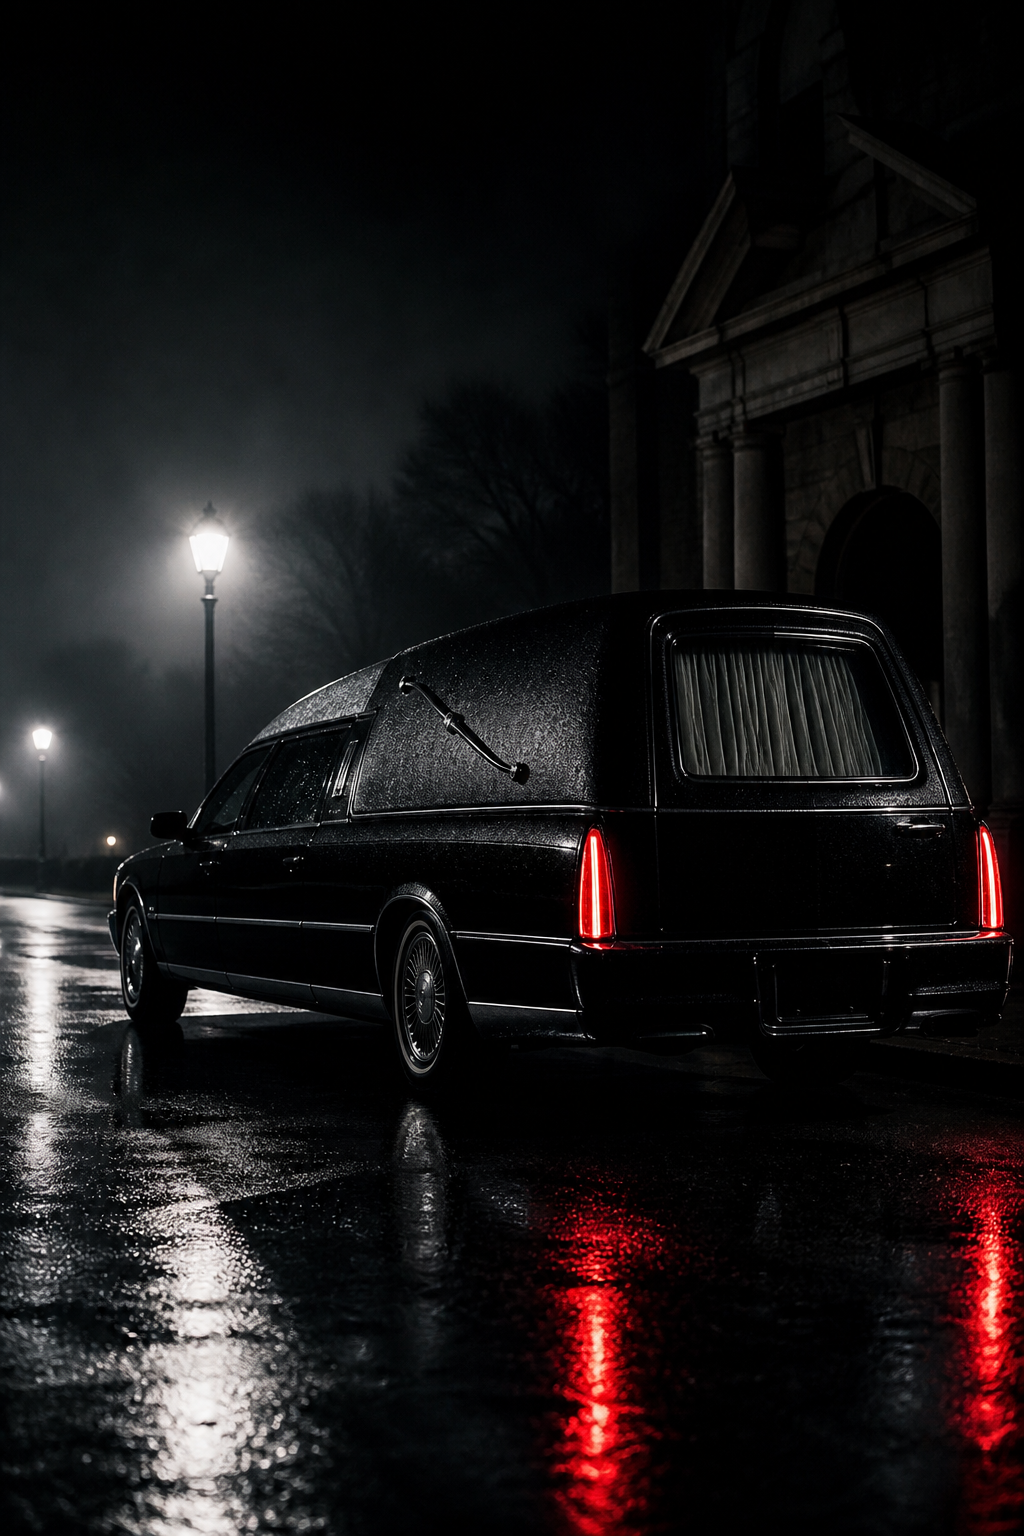
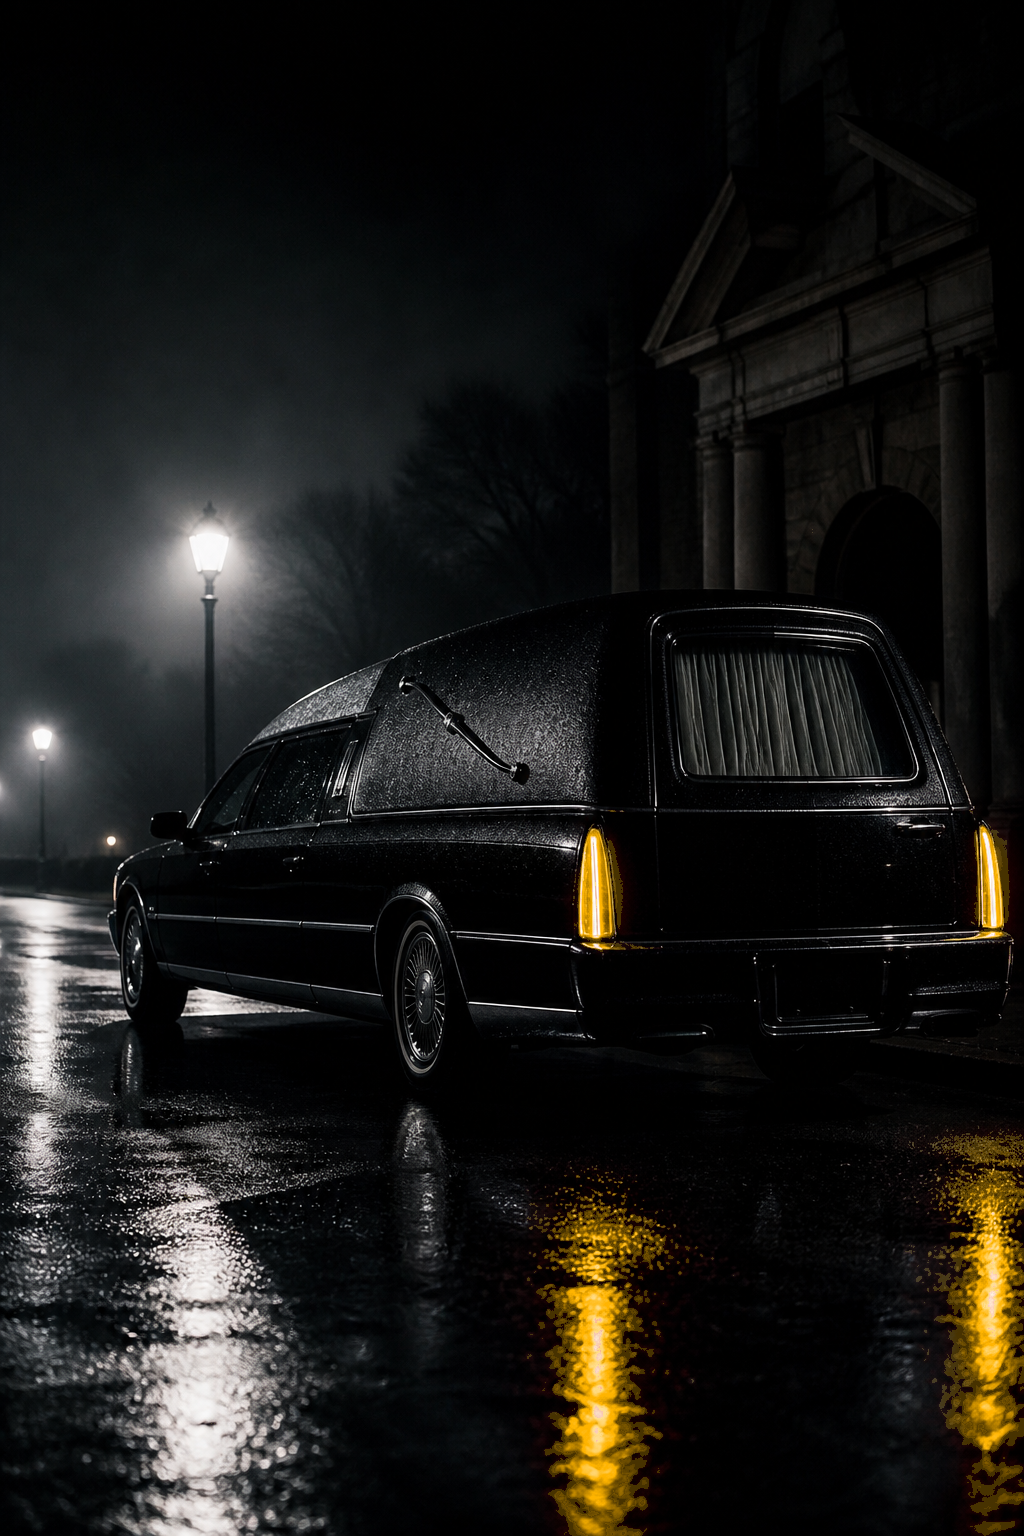
Recolor site graphics from red accents to AngelGranit gold.

diff --git a/scripts/recolor_red_to_gold.py b/scripts/recolor_red_to_gold.py
@@ -1,0 +1,97 @@
+# -*- coding: utf-8 -*-
+"""Recolor saturated red brand accents to gold. Skips skin-like tones."""
+from pathlib import Path
+from PIL import Image
+import colorsys
+import shutil
+
+ROOT = Path("images")
+BACKUP = Path("images/_backup_red")
+
+TARGETS = [
+    "banner-ritual-services.png",
+    "share-repost.png",
+    "showcase-hearse.png",
+    "price-list.png",
+    "price-list-2.png",
+    "catalog/banner-ritual.png",
+]
+
+# Gold hue ~43° in HSV (0..1)
+GOLD_H = 0.118
+GOLD_S_BOOST = 1.05
+GOLD_V_BOOST = 1.08
+
+
+def is_brand_red(r, g, b, a):
+    if a < 30:
+        return False
+    # Skip near-grays
+    mx, mn = max(r, g, b), min(r, g, b)
+    if mx < 55 or (mx - mn) < 28:
+        return False
+    # Skin / warm neutrals: R high but G close to R
+    if r > 90 and g > 55 and abs(r - g) < 55 and b < g + 15 and (r - b) < 90:
+        # likely skin/wood — only treat if very saturated pure red
+        if g > r * 0.55:
+            return False
+    h, s, v = colorsys.rgb_to_hsv(r / 255.0, g / 255.0, b / 255.0)
+    # Pure brand red: hue near 0, decent saturation
+    hue_red = h <= 0.045 or h >= 0.955
+    if hue_red and s >= 0.42 and v >= 0.18:
+        return True
+    # Chromatic red without relying only on hue (dark reds)
+    if r >= 80 and r > g * 1.45 and r > b * 1.35 and (r - g) >= 35 and s >= 0.38:
+        return True
+    # Mid red accents used in UI text
+    if r >= 140 and g < 90 and b < 90 and (r - g) >= 50:
+        return True
+    return False
+
+
+def to_gold(r, g, b):
+    h, s, v = colorsys.rgb_to_hsv(r / 255.0, g / 255.0, b / 255.0)
+    s = min(1.0, max(0.35, s * GOLD_S_BOOST))
+    v = min(1.0, v * GOLD_V_BOOST)
+    # Prefer readable gold, not muddy brown
+    if v < 0.35:
+        v = min(1.0, v + 0.12)
+    if s < 0.45:
+        s = 0.55
+    nr, ng, nb = colorsys.hsv_to_rgb(GOLD_H, s, v)
+    return int(nr * 255), int(ng * 255), int(nb * 255)
+
+
+def recolor(path: Path):
+    im = Image.open(path).convert("RGBA")
+    px = im.load()
+    w, h = im.size
+    changed = 0
+    for y in range(h):
+        for x in range(w):
+            r, g, b, a = px[x, y]
+            if is_brand_red(r, g, b, a):
+                nr, ng, nb = to_gold(r, g, b)
+                px[x, y] = (nr, ng, nb, a)
+                changed += 1
+    return im, changed, w * h
+
+
+def main():
+    BACKUP.mkdir(parents=True, exist_ok=True)
+    for rel in TARGETS:
+        src = ROOT / rel
+        if not src.exists():
+            print("skip missing", rel)
+            continue
+        bak = BACKUP / rel.replace("/", "__")
+        if not bak.exists():
+            shutil.copy2(src, bak)
+        im, changed, total = recolor(src)
+        im.save(src, optimize=True)
+        pct = 100.0 * changed / total if total else 0
+        print(f"{pct:5.1f}% pixels -> gold  {rel}  ({changed})")
+
+
+if __name__ == "__main__":
+    main()

diff --git a/scripts/recolor_red_to_gold_pass2.py b/scripts/recolor_red_to_gold_pass2.py
@@ -1,0 +1,75 @@
+# -*- coding: utf-8 -*-
+"""Second pass: convert remaining dark maroon / red glows to gold."""
+from pathlib import Path
+from PIL import Image
+import colorsys
+
+ROOT = Path("images")
+TARGETS = [
+    "banner-ritual-services.png",
+    "price-list.png",
+    "price-list-2.png",
+    "showcase-hearse.png",
+    "catalog/banner-ritual.png",
+]
+
+GOLD_H = 0.118
+
+
+def is_remaining_red(r, g, b, a):
+    if a < 20:
+        return False
+    mx, mn = max(r, g, b), min(r, g, b)
+    if mx < 28:
+        return False
+    h, s, v = colorsys.rgb_to_hsv(r / 255.0, g / 255.0, b / 255.0)
+    # Already gold-ish — skip
+    if 0.08 <= h <= 0.18 and s >= 0.25:
+        return False
+    # Skin / warm lamp — skip
+    if r > 90 and g > 60 and abs(r - g) < 50 and b > 40 and s < 0.45:
+        return False
+    # Dark maroon bars / accents
+    if r >= 40 and g <= r * 0.72 and b <= r * 0.72 and (r - g) >= 18 and (r - b) >= 18:
+        if s >= 0.22 or (r - g) >= 28:
+            return True
+    # Red hue leftover
+    if (h <= 0.06 or h >= 0.94) and s >= 0.28 and v >= 0.12:
+        return True
+    # Soft red glows (corners): reddish tint over dark
+    if r >= 50 and g < 45 and b < 45 and r > g + 20:
+        return True
+    return False
+
+
+def to_gold(r, g, b):
+    h, s, v = colorsys.rgb_to_hsv(r / 255.0, g / 255.0, b / 255.0)
+    # Map dark maroons to richer gold
+    s = min(1.0, max(0.42, s * 1.15))
+    v = min(1.0, max(0.28, v * 1.25))
+    nr, ng, nb = colorsys.hsv_to_rgb(GOLD_H, s, v)
+    return int(nr * 255), int(ng * 255), int(nb * 255)
+
+
+def main():
+    for rel in TARGETS:
+        path = ROOT / rel
+        if not path.exists():
+            continue
+        im = Image.open(path).convert("RGBA")
+        px = im.load()
+        w, h = im.size
+        n = 0
+        for y in range(h):
+            for x in range(w):
+                r, g, b, a = px[x, y]
+                if is_remaining_red(r, g, b, a):
+                    nr, ng, nb = to_gold(r, g, b)
+                    px[x, y] = (nr, ng, nb, a)
+                    n += 1
+        im.save(path, optimize=True)
+        print(f"{100*n/(w*h):5.1f}%  {rel}  ({n})")
+
+
+if __name__ == "__main__":
+    main()

diff --git a/scripts/scan_red_images.py b/scripts/scan_red_images.py
@@ -1,0 +1,58 @@
+# -*- coding: utf-8 -*-
+"""Scan PNGs for red-ish pixels and report candidates for gold recolor."""
+from pathlib import Path
+from PIL import Image
+import colorsys
+
+ROOT = Path("images")
+FILES = [
+    "banner-ritual-services.png",
+    "service-funeral.png",
+    "showcase-monument.png",
+    "showcase-hearse.png",
+    "package-minimal.png",
+    "package-hall.png",
+    "package-standard.png",
+    "package-elite.png",
+    "price-list.png",
+    "price-list-2.png",
+    "share-repost.png",
+    "qr-share.png",
+    "catalog/banner-ritual.png",
+    "hero-angelgranit.png",
+]
+
+def red_ratio(path: Path, sample=4):
+    im = Image.open(path).convert("RGBA")
+    w, h = im.size
+    px = im.load()
+    red = tot = 0
+    for y in range(0, h, sample):
+        for x in range(0, w, sample):
+            r, g, b, a = px[x, y]
+            if a < 40:
+                continue
+            tot += 1
+            mx = max(r, g, b)
+            mn = min(r, g, b)
+            if mx < 40:
+                continue
+            # red-ish: high R, low G/B relative
+            if r > 90 and r > g * 1.35 and r > b * 1.25 and (r - g) > 25:
+                red += 1
+            else:
+                # HSV hue near red
+                hsv = colorsys.rgb_to_hsv(r / 255, g / 255, b / 255)
+                hue, sat, val = hsv
+                if sat > 0.35 and val > 0.2 and (hue < 0.05 or hue > 0.92):
+                    red += 1
+    return red, tot, (100.0 * red / tot if tot else 0), w, h
+
+for rel in FILES:
+    p = ROOT / rel
+    if not p.exists():
+        print("MISSING", rel)
+        continue
+    red, tot, pct, w, h = red_ratio(p)
+    mark = "***" if pct > 1.5 else "   "
+    print(f"{mark} {pct:5.1f}% red  {w}x{h}  {rel}")
